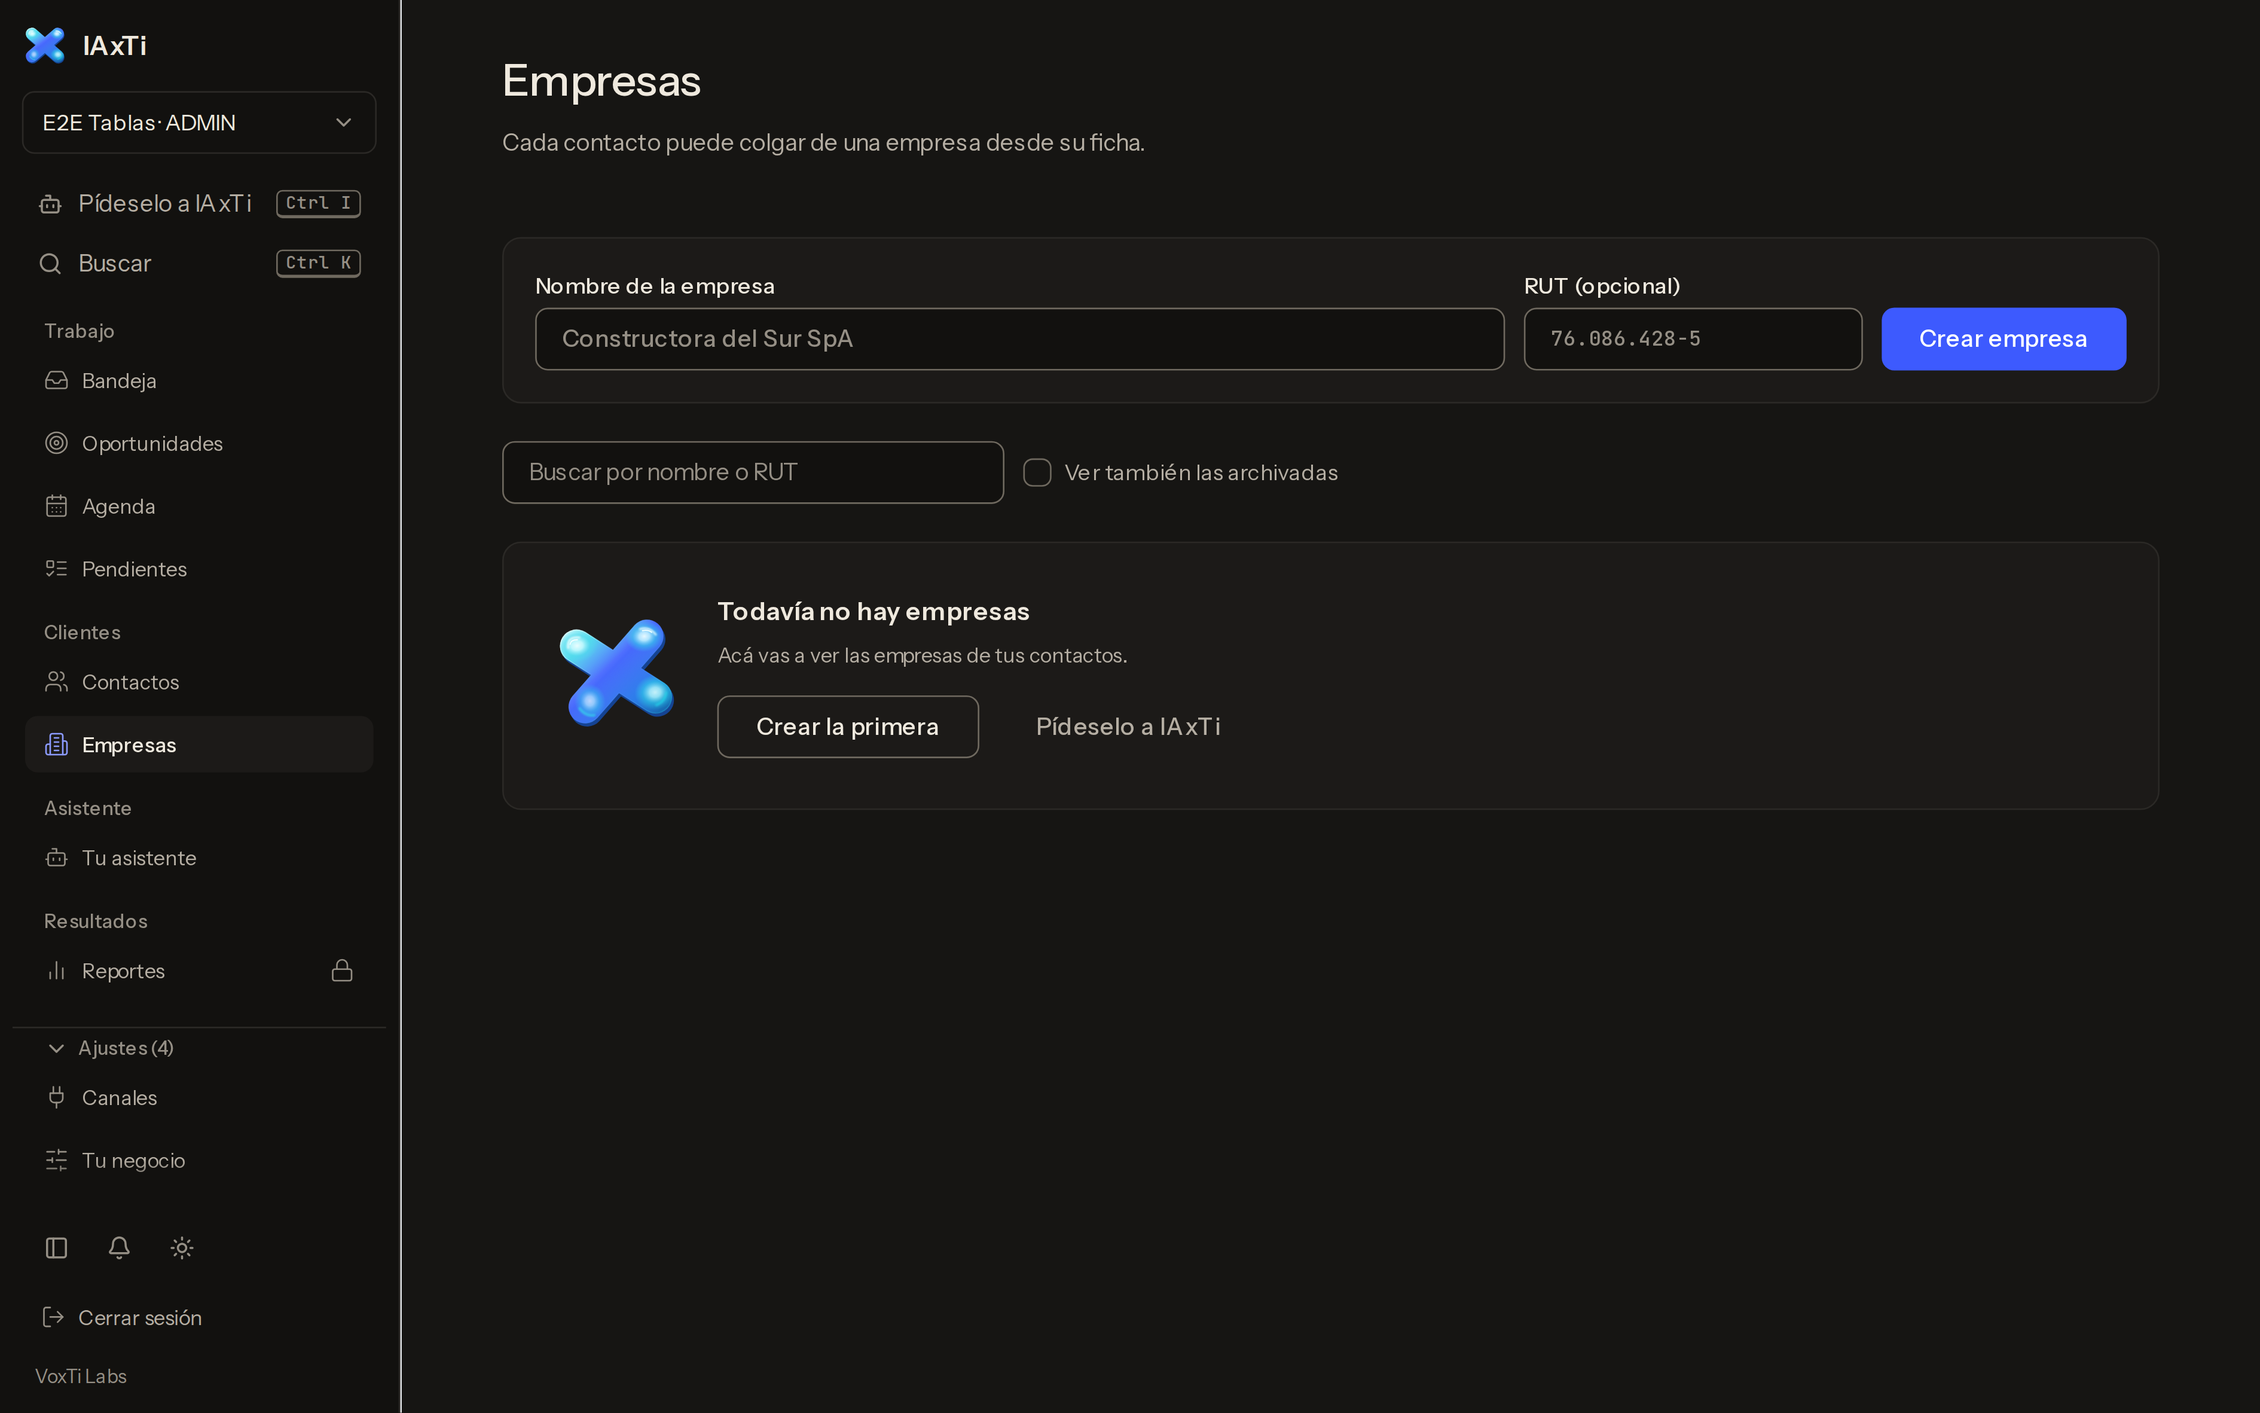
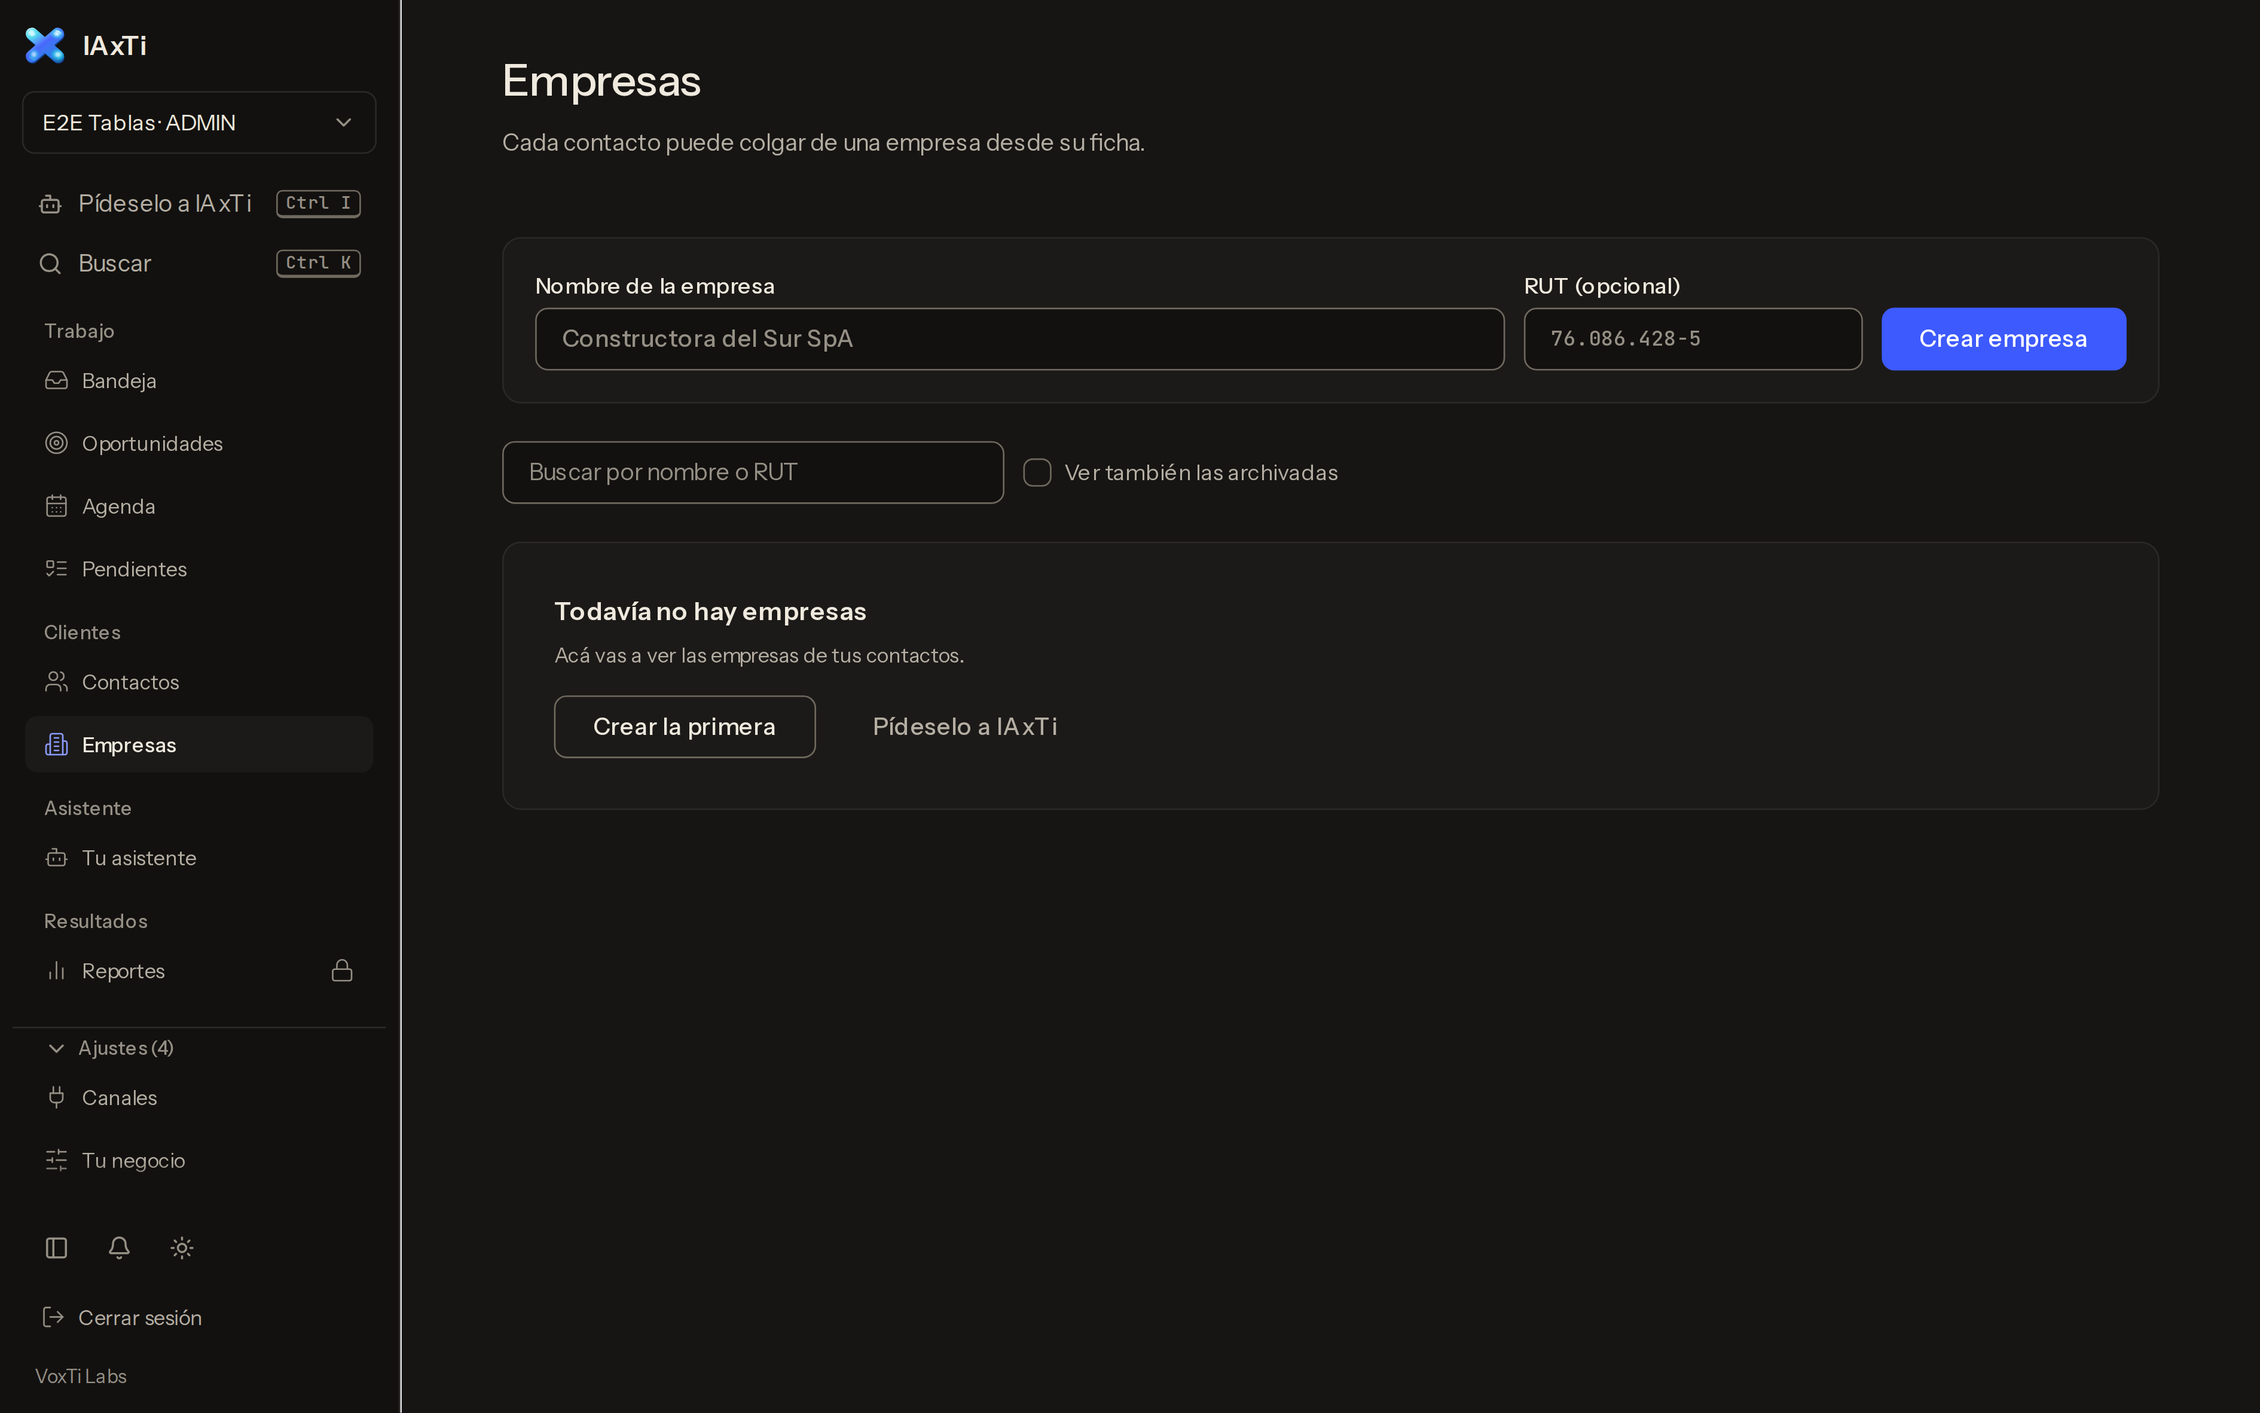
feat(ui): Mesón — vacíos sin isotipo y el resto de las pantallas (#1346)
- EstadoVacio sin el jelly: en Mesón el isotipo es del marco (barra,
  acceso, portada). Un vacío dice qué va a aparecer y la acción.
  el-isotipo-no-se-repite.spec.ts pasa de «a lo más uno» a «cero en el
  contenido».
- la-interfaz-meson.spec.ts cubre 16 pantallas más (Reportes, Campañas y
  todo Ajustes) con capturas día/noche. Encontró dos con más de un
  primario: Automatizaciones («Crear la secuencia» → secundario) y
  Ajustes › Bandeja (atajos y retención → secundarios).
- Notificaciones mostraba «estado_cuenta» y «cupo_del_canal» como nombres:
  la pantalla tiene su propia lista y el módulo agregó tipos. Guarda
  cada-aviso-tiene-nombre.test.ts compara las dos fuentes.
- Conocimiento: el campo de texto iba en mono; ahora solo el CSV del
  catálogo. Placeholders sin «…» (con guarda).

Claude-Session: https://claude.ai/code/session_01XVX1GkKUcgfbKQhEKGhndj

Changed region(s): [[0.2497, 0.4325, 0.5307, 0.5252]]

diff --git a/apps/web/tests/cada-aviso-tiene-nombre.test.ts b/apps/web/tests/cada-aviso-tiene-nombre.test.ts
@@ -1,0 +1,52 @@
+import { describe, expect, it } from 'vitest';
+import { readFileSync, readdirSync, statSync } from 'node:fs';
+import { join } from 'node:path';
+import { fuenteLimpia } from '@iaxti/core/testing';
+
+/**
+ * Cada tipo de aviso tiene nombre en la pantalla de preferencias (#1346).
+ *
+ * La tabla de `/ajustes/notificaciones` mostraba «estado_cuenta» y
+ * «cupo_del_canal» como si fueran nombres: el módulo los agregó a
+ * `NOTIFICATION_TYPES` y la pantalla, que tiene su propia lista (no puede
+ * importar el módulo: el frontend habla por la API), nunca se enteró. Esta
+ * guarda lee las dos fuentes y exige que la segunda cubra a la primera.
+ *
+ * Y de pasada, la otra regla de copy que se vio en la misma revisión: ningún
+ * placeholder termina en «…» (ui-meson.md).
+ */
+const RAIZ = join(__dirname, '..', '..', '..');
+
+describe('los nombres de los avisos', () => {
+  const modulo = fuenteLimpia(readFileSync(join(RAIZ, 'packages/modules/notifications/application/notifications.ts'), 'utf8'));
+  const lista = modulo.match(/NOTIFICATION_TYPES = \[([\s\S]*?)\] as const/);
+  const tipos = [...(lista?.[1] ?? '').matchAll(/'([a-z_]+)'/g)].map((m) => m[1]!);
+  const pantalla = fuenteLimpia(readFileSync(join(__dirname, '../components/preferencias-avisos.tsx'), 'utf8'));
+
+  it('encuentra los tipos del módulo (si no, la guarda no mide nada)', () => {
+    expect(tipos.length).toBeGreaterThan(5);
+  });
+
+  it('la pantalla le da nombre a cada uno', () => {
+    const sinNombre = tipos.filter((t) => !new RegExp(`\\b${t}: '`).test(pantalla));
+    expect(sinNombre, 'tipos de aviso que se verían con la llave cruda').toEqual([]);
+  });
+});
+
+describe('los placeholders', () => {
+  function archivos(dir: string): string[] {
+    return readdirSync(dir).flatMap((n) => {
+      const p = join(dir, n);
+      if (statSync(p).isDirectory()) return archivos(p);
+      return p.endsWith('.tsx') && !p.endsWith('.test.tsx') ? [p] : [];
+    });
+  }
+
+  it('ninguno termina en «…»', () => {
+    const conPuntos = [...archivos(join(__dirname, '../components')), ...archivos(join(__dirname, '../app'))].flatMap((f) => {
+      const fuente = fuenteLimpia(readFileSync(f, 'utf8'));
+      return [...fuente.matchAll(/placeholder="([^"]*…)"/g)].map((m) => `${f.split('/apps/web/')[1]}: ${m[1]}`);
+    });
+    expect(conPuntos).toEqual([]);
+  });
+});

diff --git a/apps/web/e2e/el-isotipo-no-se-repite.spec.ts b/apps/web/e2e/el-isotipo-no-se-repite.spec.ts
@@ -14,6 +14,10 @@ import { join } from 'node:path';
  * pantalla, no para un panel vacío dentro de una pantalla con contenido. Eso
  * ya tenía nombre —`compacto`— y lo que faltaba era usarlo.
  *
+ * Mesón (ADR-0034, #1346) fue un paso más: el jelly es del MARCO —barra,
+ * acceso, portada— y ningún vacío lo trae. En estas rutas el contenido tiene
+ * CERO isotipos; si vuelve uno, volvió el adorno.
+ *
  * Se cuenta sobre la pantalla renderizada y no leyendo el código porque el
  * defecto no está en ningún archivo: está en que tres componentes correctos
  * coinciden en una ruta. Ninguna guarda de fuente lo ve.
@@ -24,7 +28,7 @@ const RUTAS = ['/ajustes/canales', '/ajustes/ia/detalle', '/ajustes/conocimiento
   '/campanas', '/empresas', '/contactos', '/oportunidades', '/pendientes', '/reportes',
   '/ajustes/etiquetas', '/ajustes/campos', '/ajustes/plantillas', '/ajustes/automatizaciones'];
 
-test('ninguna pantalla muestra el isotipo más de una vez', async ({ page }) => {
+test('ninguna pantalla de trabajo muestra el isotipo en el contenido', async ({ page }) => {
   await page.setViewportSize({ width: 1440, height: 1000 });
   await page.addInitScript((a) => {
     localStorage.setItem('iaxti-tenant', a.tableTenantId);
@@ -43,13 +47,12 @@ test('ninguna pantalla muestra el isotipo más de una vez', async ({ page }) => 
     // Solo el contenido: el isotipo de la barra lateral es la identidad del
     // producto y está en todas las pantallas a propósito.
     const cuantos = await page.locator('main .pulso-jelly').count();
-    if (cuantos > 1) repetidas.push(`${ruta}: ${cuantos} veces`);
+    if (cuantos > 0) repetidas.push(`${ruta}: ${cuantos} veces`);
   }
 
   expect(
     repetidas,
-    'El isotipo se repite. Un estado vacío que es un PANEL dentro de una ' +
-      'pantalla con contenido va con `compacto`, y así no lo trae; el isotipo ' +
-      'es para cuando el vacío es la pantalla entera.',
+    'El isotipo apareció dentro del contenido. En Mesón es del marco (barra, ' +
+      'acceso, portada); un estado vacío dice qué va a aparecer y la acción.',
   ).toEqual([]);
 });

diff --git a/packages/ui/src/react/estado-vacio.tsx b/packages/ui/src/react/estado-vacio.tsx
@@ -2,7 +2,6 @@
 
 import { Button } from './ui/button';
 import { cn } from './ui/cn';
-import { MarcaJelly } from './marca-jelly';
 
 type Accion = { etiqueta: string; href: string; onClick?: never } | { etiqueta: string; onClick: () => void; href?: never };
 
@@ -36,21 +35,12 @@ export function EstadoVacio({ titulo, descripcion, accion, pideleAIAxTi, documen
   className?: string;
 }) {
   return <section aria-label={titulo} data-compact={compacto} data-sin-marco={sinMarco || undefined} className={cn('pulso-empty', sinMarco ? undefined : 'pulso-panel rounded-tarjeta border border-line bg-raised', compacto ? 'p-4' : 'p-6', className)}>
-    {/* El isotipo solo cuando el vacío ES la pantalla (#1159).
-
-        `compacto` ya quiere decir «esto es un panel, no la pantalla», así que
-        la regla no necesita una prop nueva: necesita usar la que hay.
-
-        Lo que lo hizo evidente fue `/ajustes/canales`, donde el isotipo
-        aparecía TRES veces en un scroll —dos a 82 px y uno a 45— porque la
-        pantalla tiene tres paneles que pueden estar vacíos a la vez. La misma
-        marca repetida en la misma pantalla, y en dos tamaños, se lee como
-        relleno; y una pantalla con tres paneles no está vacía.
-
-        Cuando sí lo está —`/empresas`, `/campanas`, `/ajustes/etiquetas`— el
-        isotipo es lo único que hay y le da identidad a un callejón. Ahí se
-        queda. */}
-    {!compacto && <MarcaJelly />}
+    {/* Sin isotipo (Mesón, ADR-0034, #1346). Antes iba cuando el vacío ERA
+        la pantalla (#1159): el jelly girado a 82 px le daba identidad a un
+        callejón. En Mesón el jelly es lo único brillante del MARCO —la barra,
+        el acceso, la portada— y adentro del trabajo se leía como adorno: lo
+        que le da salida a un vacío es decir qué va a aparecer y la acción,
+        y eso ya está abajo. */}
     <div className="min-w-0">
     {/* Sin marco va bajo el título de otra tarjeta: con su misma letra se leían
         dos títulos seguidos (#1344), así que baja a letra de texto. */}

diff --git a/packages/ui/pulso-vivo.css b/packages/ui/pulso-vivo.css
@@ -141,9 +141,7 @@ body { background: var(--canvas); font-size: 15px; }
 .pulso-step-heading { display: flex; gap: 14px; align-items: flex-start; min-width: 0; }
 .pulso-step-number { display: grid; place-items: center; flex-shrink: 0; width: 36px; height: 36px; border: 1px solid var(--border); border-radius: 12px; background: var(--bg-raised); color: var(--action-text); font: 12px 'JetBrains Mono', monospace; box-shadow: var(--relieve-suave); }
 .pulso-empty { position: relative; overflow: hidden; }
-.pulso-empty:not([data-compact="true"]) { display: grid; grid-template-columns: 82px 1fr; align-items: center; gap: 22px; padding: 32px; }
-.pulso-empty .pulso-jelly { width: 82px; transform: rotate(-8deg); }
-.pulso-empty[data-compact="true"] .pulso-jelly { width: 45px; margin-bottom: 12px; }
+.pulso-empty:not([data-compact="true"]) { padding: 32px; }
 
 /* Acceso: identidad IAxTi y el formulario OTP existente, sin cambiar auth. */
 .pulso-access { min-height: 100svh; padding: 20px; background: var(--canvas); }
@@ -229,8 +227,7 @@ body { background: var(--canvas); font-size: 15px; }
   .pulso-hero { gap: 12px; padding: 24px 20px; border-radius: 16px; }
   .pulso-hero .pulso-jelly { width: 76px; align-self: flex-start; }
   .pulso-hero h1 { font-size: 28px; }
-  .pulso-empty:not([data-compact="true"]) { grid-template-columns: 1fr; gap: 16px; padding: 24px; }
-  .pulso-empty .pulso-jelly { width: 62px; }
+  .pulso-empty:not([data-compact="true"]) { padding: 24px; }
   .pulso-access { padding: 10px; }
   .pulso-access-stage { min-height: calc(100svh - 20px); border-radius: 16px; }
   .pulso-access-header { padding: 16px 20px; gap: 12px; }

diff --git a/apps/web/components/conocimiento.tsx b/apps/web/components/conocimiento.tsx
@@ -1,6 +1,6 @@
 'use client';
 
-import { AvisoResultado, EncabezadoDePagina, EstadoVacio , ElegirArchivo } from '@iaxti/ui/react';
+import { AvisoResultado, EncabezadoDePagina, EstadoVacio, ElegirArchivo, cn } from '@iaxti/ui/react';
 
 import { useCallback, useEffect, useState } from 'react';
 import {
@@ -97,7 +97,7 @@ function fmtUso(f: FuenteDto): { texto: string; role: 'good' | 'warn' | 'neutral
 }
 
 const PLACEHOLDER: Record<string, string> = {
-  texto: 'Pega aquí lo que la IA debe saber: horarios, políticas, cómo trabajar…',
+  texto: 'Pega aquí lo que la IA debe saber: horarios, políticas, cómo trabajar',
   faq: 'Una pregunta y respuesta por línea, separadas por "|". Ej:\n¿Hacen despacho? | Sí, a todo Chile en 3-5 días.',
   catalogo: 'Pega el CSV con cabeceras: nombre, precio, stock, descripcion',
   url: '',
@@ -316,7 +316,10 @@ export function Conocimiento() {
         ) : (
           <Textarea
             aria-label="Contenido"
-            className="mt-3 font-mono text-sm"
+            // Mono solo para el CSV del catálogo, donde las columnas importan;
+            // un texto o unas preguntas son prosa y van en la letra de la
+            // interfaz (Mesón: la mono nunca en prosa, #1346).
+            className={cn('mt-3 text-sm', kind === 'catalogo' && 'font-mono')}
             rows={5}
             placeholder={PLACEHOLDER[kind]}
             value={contenido}

diff --git a/apps/web/e2e/la-interfaz-meson.spec.ts b/apps/web/e2e/la-interfaz-meson.spec.ts
@@ -113,6 +113,22 @@ for (const modo of ['dia', 'noche'] as const) {
     ['empresas', '/empresas'],
     ['ajustes-ia', '/ajustes/ia'],
     ['ajustes-equipo', '/ajustes/equipo'],
+    ['reportes', '/reportes'],
+    ['campanas', '/campanas'],
+    ['ajustes-plantillas', '/ajustes/plantillas'],
+    ['ajustes-embudos', '/ajustes/embudos'],
+    ['ajustes-etiquetas', '/ajustes/etiquetas'],
+    ['ajustes-pagos', '/ajustes/pagos'],
+    ['ajustes-facturacion', '/ajustes/facturacion'],
+    ['ajustes-campos', '/ajustes/campos'],
+    ['ajustes-roles', '/ajustes/roles'],
+    ['ajustes-notificaciones', '/ajustes/notificaciones'],
+    ['ajustes-webhooks', '/ajustes/webhooks'],
+    ['ajustes-api', '/ajustes/api'],
+    ['ajustes-auditoria', '/ajustes/auditoria'],
+    ['ajustes-automatizaciones', '/ajustes/automatizaciones'],
+    ['ajustes-conocimiento', '/ajustes/conocimiento'],
+    ['ajustes-bandeja', '/ajustes/bandeja'],
   ] as const) {
     test(`${ruta}, modo ${modo}: Mesón pintado`, async ({ page }) => {
       await page.addInitScript((m) => localStorage.setItem('pulso-mode', m), modo);

diff --git a/apps/web/components/automatizaciones.tsx b/apps/web/components/automatizaciones.tsx
@@ -474,7 +474,9 @@ export function Automatizaciones() {
           >
             Agregar un paso
           </Button>
-          <Button type="submit" disabled={creandoSec || !secuencia.name.trim()}>
+          {/* Secundario: el primario de la pantalla es «Crear la regla» (Mesón,
+              un primario por vista, #1346). */}
+          <Button type="submit" variant="secundario" disabled={creandoSec || !secuencia.name.trim()}>
             {creandoSec ? 'Creando…' : 'Crear la secuencia'}
           </Button>
         </span>

diff --git a/apps/web/components/configurador.tsx b/apps/web/components/configurador.tsx
@@ -204,7 +204,7 @@ function ConfiguradorDelNegocio({ tenant }: { tenant: string }) {
             aria-label="Descripción del negocio"
             className="mt-3"
             rows={3}
-            placeholder="Ej: Somos una barbería en Ñuñoa, 3 barberos, atendemos con y sin reserva…"
+            placeholder="Ej: Somos una barbería en Ñuñoa, 3 barberos, atendemos con y sin reserva"
             value={descripcion}
             onChange={(e) => { editado.current = true; setDescripcion(e.target.value); }}
           />

diff --git a/apps/web/components/atajos-de-respuesta.tsx b/apps/web/components/atajos-de-respuesta.tsx
@@ -139,7 +139,9 @@ export function AtajosDeRespuesta() {
           </span>
         </label>
         <span>
-          <Button type="submit" disabled={creando}>
+          {/* Secundario: va bajo «Guardar» de la bandeja, que es el primario de
+              /ajustes/bandeja (Mesón, #1346). */}
+          <Button type="submit" variant="secundario" disabled={creando}>
             {creando ? 'Guardando…' : 'Guardar atajo'}
           </Button>
         </span>

diff --git a/apps/web/components/preferencias-avisos.tsx b/apps/web/components/preferencias-avisos.tsx
@@ -32,6 +32,10 @@ const NOMBRES: Record<string, string> = {
   cuota_ia: 'Cuota de IA por agotarse',
   calidad_numero: 'Calidad del número de WhatsApp',
   pago_recibido: 'Pago recibido',
+  // Los mismos textos que `TIPOS_LEGIBLES` del módulo: sin ellos la tabla
+  // mostraba la llave cruda («estado_cuenta») como nombre (#1346).
+  estado_cuenta: 'El estado de tu cuenta cambió',
+  cupo_del_canal: 'Cupo diario del canal por agotarse',
 };
 
 /**

diff --git a/apps/web/components/retencion-del-negocio.tsx b/apps/web/components/retencion-del-negocio.tsx
@@ -173,7 +173,8 @@ export function RetencionDelNegocio() {
             En blanco vuelve a lo que da el plan.
           </span>
         </label>
-        <Button type="submit" disabled={guardando}>
+        {/* Secundario por lo mismo que los atajos (Mesón, #1346). */}
+        <Button type="submit" variant="secundario" disabled={guardando}>
           {guardando ? 'Guardando…' : 'Guardar'}
         </Button>
       </form>
